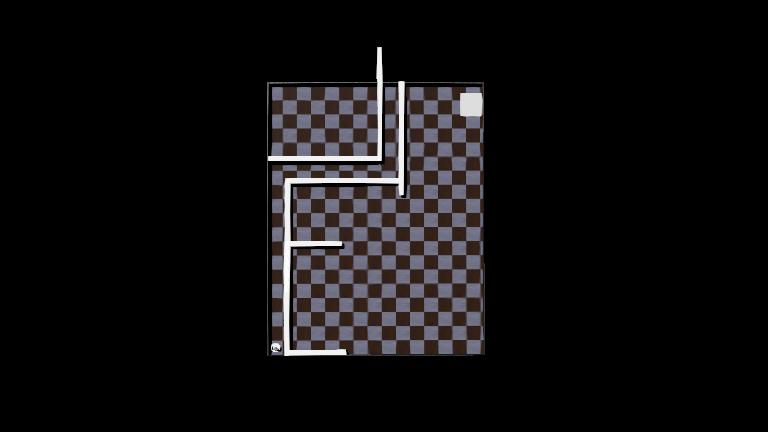
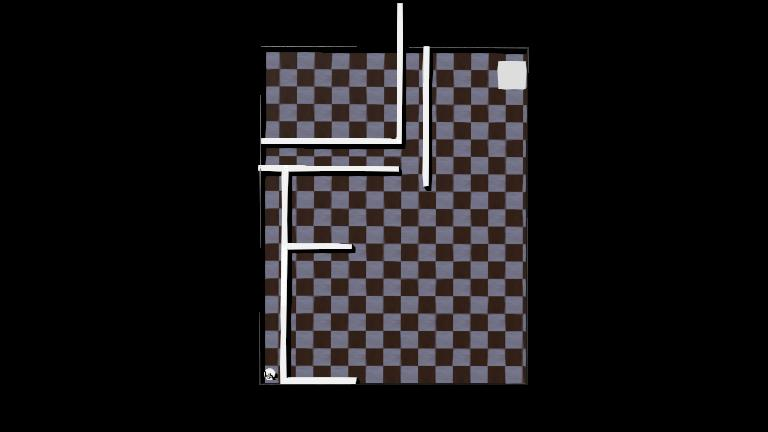
trayectoria exploración - menor error

Changed region(s): [[0.3125, 0.0, 0.6875, 0.9028]]

diff --git a/Webots/controllers/my_controller_Pololu3pi/my_controller_Pololu3pi.py b/Webots/controllers/my_controller_Pololu3pi/my_controller_Pololu3pi.py
@@ -10,8 +10,8 @@ class Slave(Robot):
     timestep = 5
 
     # Especificaciones del mundo
-    size_x = 3.8 #mt
-    size_y = 4.8 #mt
+    size_x = 5 #mt
+    size_y = 5 #mt
 
     # Caracteristicas del robot
     maxSpeed = 0.035 #mt/s
@@ -81,7 +81,7 @@ class Slave(Robot):
 
     def run(self):
         fGeneral = False
-        self.angulo = 270
+        self.angulo = 90
         self.dMin = 15 # Distancia minima del objeto en cm
         self.rangoSenDis = 50 # Distancia máxima de sensado
         self.avanzar = False
@@ -92,10 +92,10 @@ class Slave(Robot):
                 self.DecisionGiro()
                 self.RotControl(self.angulo)                  
      
-                self.DistanciaLineaRecta_Inicio()
+                
                 self.Explorar()
-                self.DistanciaLineaRecta_Fin()
-                self.TrayectoriaExploracion()
+                
+                
             
             fGeneral = True  # Bandera general del proceso
             
@@ -136,8 +136,8 @@ class Slave(Robot):
         self.revsRight = self.PS_Right_value/(2*np.pi)
         self.revsLeft = self.PS_Left_value/(2*np.pi)
         
-        self.DRW_Right = round(self.revsRight*2*np.pi*self.wheelRadius,4)    # Distancia recorrida por la llanta derecha
-        self.DRW_Left = round(self.revsLeft*2*np.pi*self.wheelRadius,4)      # Distancia recorrida por la llanta izquierda
+        self.DRW_Right = round(self.revsRight*2*np.pi*self.wheelRadius,10)    # Distancia recorrida por la llanta derecha
+        self.DRW_Left = round(self.revsLeft*2*np.pi*self.wheelRadius,10)      # Distancia recorrida por la llanta izquierda
 
         # Actualizar valores de GPS
         self.GPS_values = self.GPS.getValues()
@@ -182,15 +182,15 @@ class Slave(Robot):
                     giroder = -(w*self.distanceCenter)/self.wheelRadius
                     giroiz = (w*self.distanceCenter)/self.wheelRadius
 
-                if giroder >= 5:
-                    giroder = 5
-                if giroder <= -5:
-                    giroder = -5
+                if giroder >= 0.5:
+                    giroder = 0.5
+                if giroder <= -0.5:
+                    giroder = -0.5
 
-                if giroiz >= 5:
-                    giroiz = 5
-                if giroiz <= -5:
-                    giroiz = -5
+                if giroiz >= 0.5:
+                    giroiz = 0.5
+                if giroiz <= -0.5:
+                    giroiz = -0.5
 
                 self.right_motor.setVelocity(giroder)
                 self.left_motor.setVelocity(giroiz)
@@ -201,10 +201,36 @@ class Slave(Robot):
             
             if self.step(self.timestep) == -1:
                 break
+        
     
     def DecisionGiro(self):
         #print("Función: Decisión giro")
         # Función para determinar la siguiente acción de giro
+        if self.avanzar == False:
+            if self.ds1_value <= self.dMin:
+                self.angulo +=45
+
+            if self.ds5_value <= self.dMin:
+                self.angulo -=45
+                
+            return
+       
+        if self.ds3_value > self.ds0_value and self.ds3_value > self.ds1_value and self.ds3_value > self.ds5_value:
+            self.angulo += 180
+            print("giro 3, 180°")    
+        
+        elif self.ds1_value > self.ds0_value:
+            self.angulo = self.angulo -45
+            print("giro 1")
+            
+        elif self.ds5_value > self.ds0_value:
+            self.angulo = self.angulo +45
+            print("giro 2")
+
+            
+
+        
+        """
         if self.ds1_value >= self.ds0_value and self.ds1_value >= self.ds5_value:
             if self.ds2_value >= self.ds4_value and self.ds2_value >= self.ds0_value and self.ds1_value >= self.dMin and self.ds2_value >= self.dMin:
                 self.angulo = self.angulo -45
@@ -227,47 +253,62 @@ class Slave(Robot):
             print("giro 4")
             return
         
-        """
+        
         if self.ds3_value > self.ds0_value and self.ds3_value > self.ds1_value and self.ds3_value > self.ds2_value and self.ds3_value > self.ds4_value and self.ds3_value > self.ds5_value:
             self.angulo = self.angulo +180
             print("giro 5") 
             return
-        """    
+            
 
         # avanzar hasta proxima condición de giro
         self.avanzar = True
         self.angulo = self.angulo -180
         print("++++ GIRO FORZADO ")
-    
+        """
     def Explorar(self):
+        
         self.avanzar = True
-        while (self.ds0_value >= self.ds2_value or self.ds2_value < self.dMin) and (self.ds0_value >= self.ds4_value or self.ds4_value < self.dMin):
-            self.left_motor.setVelocity(10)
-            self.right_motor.setVelocity(10)
-            
+        self.cont = 0
+        self.coef_velocidad = 0.1
+        self.vel_max = 8
+        
+        while self.ds0_value >= self.ds2_value and self.ds0_value >= self.ds4_value:
+            self.DistanciaLineaRecta_Inicio()
+            self.left_motor.setVelocity(self.vel_max*self.coef_velocidad)
+            self.right_motor.setVelocity(self.vel_max*self.coef_velocidad)
+
+            if self.coef_velocidad < 0.9:
+                self.coef_velocidad += 0.05
+            # Actualizar los valores de los sensores
+            self.DatosSensores()
+            self.DistanciaLineaRecta_Fin()
+            self.TrayectoriaExploracion()
             # Mostrar el trayecto explorado
             if keyboard.is_pressed("m"):
                 self.showMap = True
             if keyboard.is_pressed("o"):
-                self.showMap_Odo = True
-                
-            # Actualizar los valores de los sensores
-            self.DatosSensores()  
-             
-
+                self.showMap_Odo = True  
+            
+            if self.cont == 4:
+                self.RotControl(self.angulo)
+                self.cont = 0
+            self.cont +=1        
+            
             # Condiciones especiales para cambiar la rotación
-            if self.ds0_value <= self.dMin+3 or self.ds1_value <= self.dMin+1 or self.ds5_value <= self.dMin+1:
+            if self.ds0_value <= self.dMin or self.ds1_value <= self.dMin or self.ds5_value <= self.dMin:
                 print("---- Freno de emergencia ----")
                 self.avanzar = False
-                #self.left_motor.setVelocity(0)
-                #self.right_motor.setVelocity(0)
+                self.left_motor.setVelocity(3)
+                self.right_motor.setVelocity(3)
                 break                   
-              
+            
             if self.step(self.timestep) == -1:
                 break
-
         self.left_motor.setVelocity(0)
         self.right_motor.setVelocity(0)
+
+        
+        
 
     def DistanciaLineaRecta_Inicio(self):
         # Guardar distancia actual para iniciar el proceso de medición
@@ -289,8 +330,11 @@ class Slave(Robot):
         #print(self.d_lineaRecta_Left,"  ",self.d_lineaRecta_Right, "  ",self.promedio_distancia_trayecto)
     
     def TrayectoriaExploracion(self):
-        self.T_Exploracion_x.append(self.T_Exploracion_x[len(self.T_Exploracion_x)-1]+np.cos(self.angulo*np.pi/180)*self.promedio_distancia_trayecto) # Trayectoria exploración coordenada en x
-        self.T_Exploracion_y.append(self.T_Exploracion_y[len(self.T_Exploracion_y)-1]+np.sin(self.angulo*np.pi/180)*self.promedio_distancia_trayecto) # Trayectoria exploración coordenada en y
+        T_exploracion_x_valor = self.T_Exploracion_x[len(self.T_Exploracion_x)-1]+np.cos(self.angulo*np.pi/180)*self.promedio_distancia_trayecto
+        T_exploracion_y_valor = self.T_Exploracion_y[len(self.T_Exploracion_y)-1]+np.sin(self.angulo*np.pi/180)*self.promedio_distancia_trayecto
+
+        self.T_Exploracion_x.append(T_exploracion_x_valor) # Trayectoria exploración coordenada en x
+        self.T_Exploracion_y.append(T_exploracion_y_valor) # Trayectoria exploración coordenada en y
         #print(np.sin(self.angulo*np.pi/180), "  ", self.angulo )
         
         # valores obtenidos con base al sensor GPS de webots 
@@ -298,13 +342,15 @@ class Slave(Robot):
         self.nodos_GPS_y.append(self.GPS_values[1]+self.size_y/2)
 
         # porcentaje de error
-        self.delta_GPS_revs_x = abs(self.T_Exploracion_x[1]-self.nodos_GPS_x[1])
-        self.delta_GPS_revs_y = abs(self.T_Exploracion_y[1]-self.nodos_GPS_y[1])
+        self.delta_GPS_revs_x = abs(self.T_Exploracion_x[0]-self.nodos_GPS_x[1])
+        self.delta_GPS_revs_y = abs(self.T_Exploracion_y[0]-self.nodos_GPS_y[1])
 
         v_aproximado = np.sqrt((self.T_Exploracion_x[len(self.T_Exploracion_x)-1]+self.delta_GPS_revs_x)**2+(self.T_Exploracion_y[len(self.T_Exploracion_y)-1]+self.delta_GPS_revs_y)**2)
         v_real = np.sqrt(self.nodos_GPS_x[len(self.nodos_GPS_x)-1]**2 +self.nodos_GPS_y[len(self.nodos_GPS_y)-1]**2)
+        #v_aproximado = T_exploracion_x_valor+self.delta_GPS_revs_x
+        #v_real = self.GPS_values[0]+self.size_x/2
 
-        self.error_GPS_revs.append(abs((v_aproximado-v_real)/v_real)*100)
+        self.error_GPS_revs.append(abs((v_aproximado-v_real)/abs(v_real))*100)
         
         if self.showMap == True:
             print(self.T_Exploracion_x[len(self.T_Exploracion_x)-1]+self.delta_GPS_revs_x ,'  ' , self.nodos_GPS_x[len(self.nodos_GPS_x)-1])
@@ -329,7 +375,7 @@ class Slave(Robot):
             plt.xlabel('X')
             plt.ylabel('Y')
             plt.title('Por posición de ruedas')
-            plt.xlim(0,4)
+            plt.xlim(0,5)
             plt.ylim(0,5)
             plt.grid(True)
             # *-*-*-*-*-*-*-*-*-*-*-*-*-*-*-*-*-*-*-*-*-*-*-*-*-*-*-*-*-*-*-*-*-*-*- 
@@ -350,7 +396,7 @@ class Slave(Robot):
             plt.xlabel('X')
             plt.ylabel('Y')
             plt.title('GPS')
-            plt.xlim(0,4)
+            plt.xlim(0,5)
             plt.ylim(0,5)
             plt.grid(True)
             # *-*-*-*-*-*-*-*-*-*-*-*-*-*-*-*-*-*-*-*-*-*-*-*-*-*-*-*-*-*-*-*-*-*-*- 
@@ -369,7 +415,7 @@ class Slave(Robot):
             self.ax1_fig2.set_ylim(0,100)
 
             # Configurar aspecto de los ejes
-            self.ax1_fig2.set_aspect('equal')
+            
             self.ax1_fig2.grid(True)
             
             plt.title('Error acumulado')
